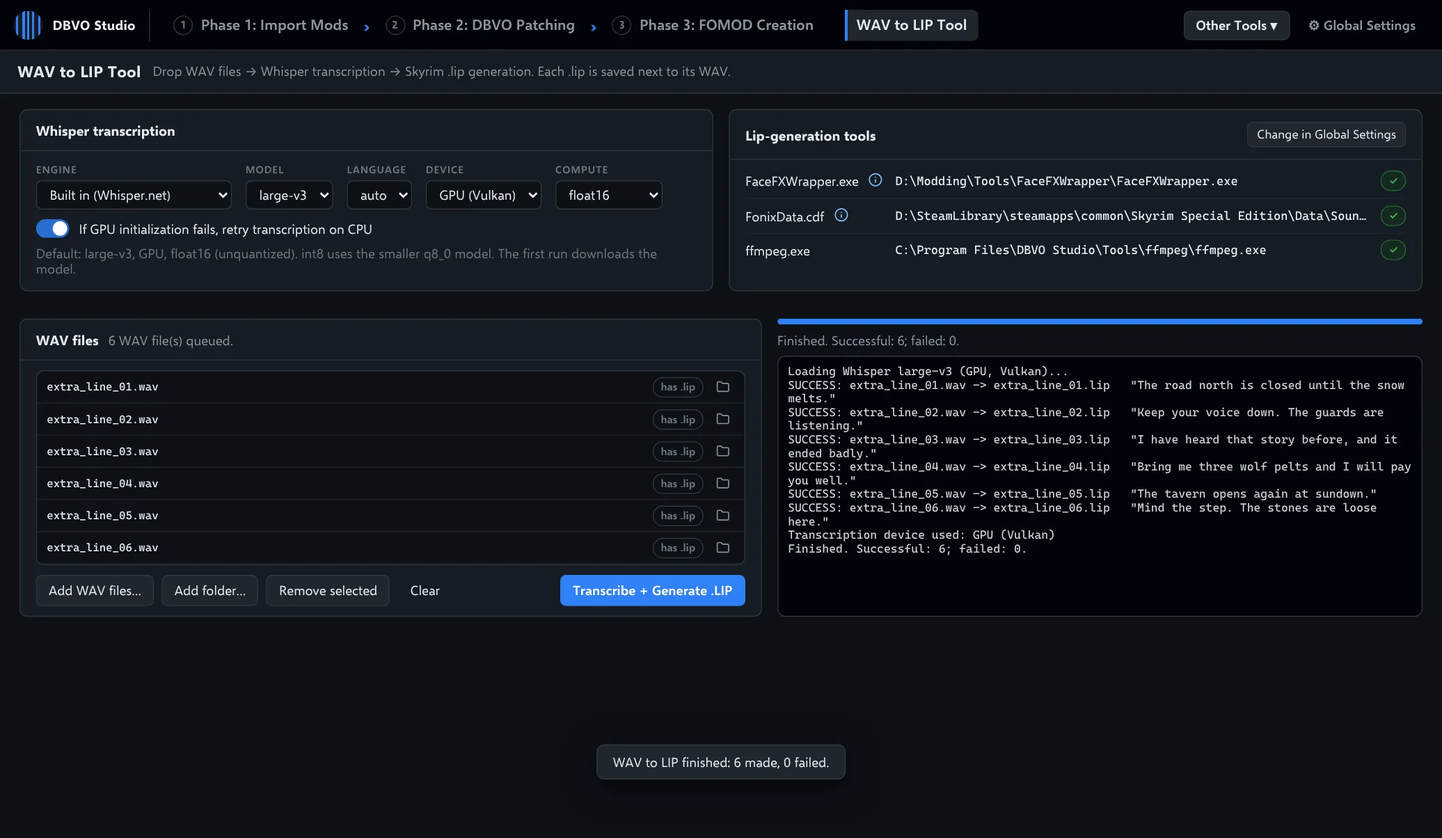
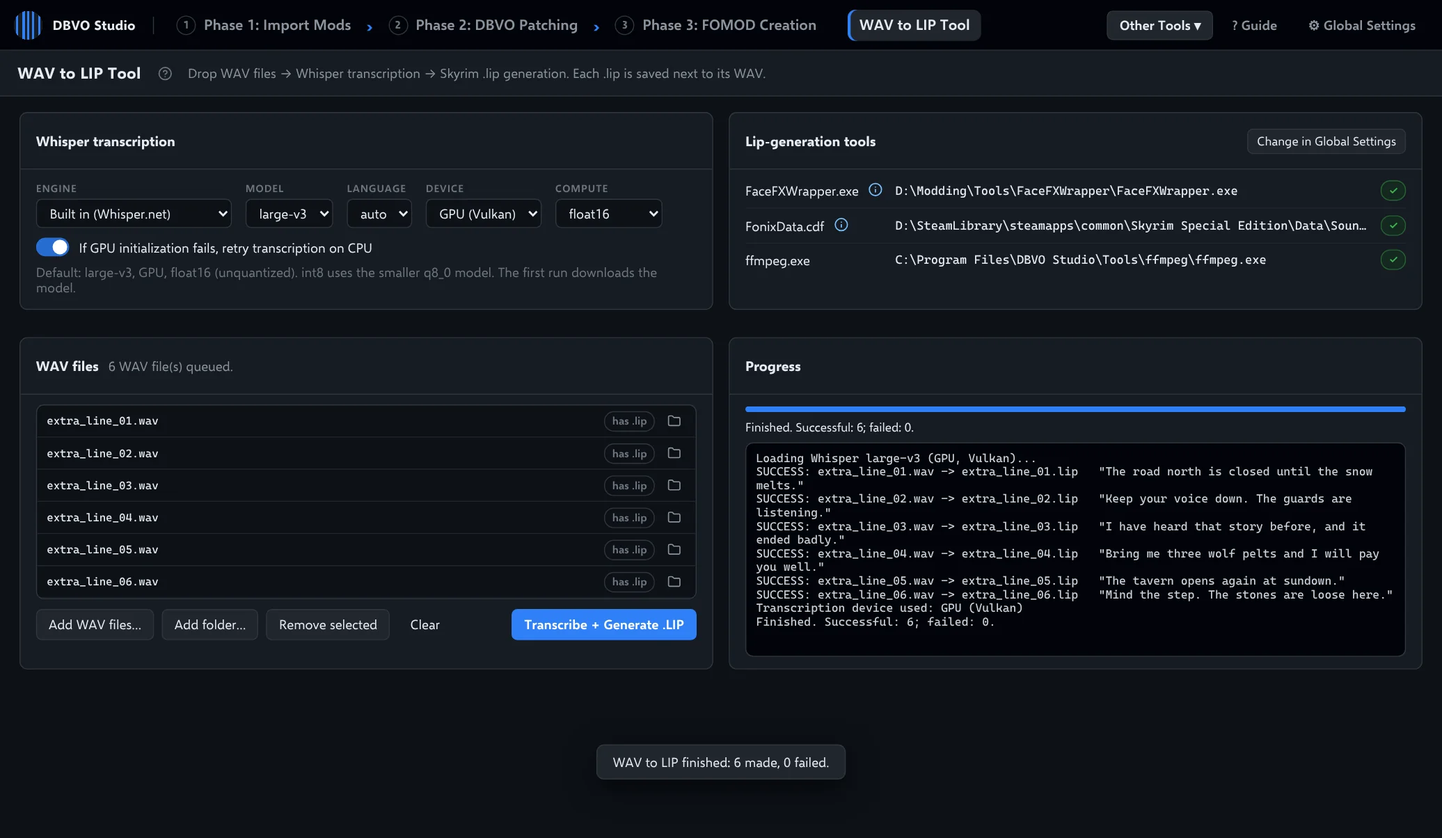
Background image on every page, M'aiq quotes, header tab edges, WAV to LIP layout
- Background image moves to Global Settings → Appearance and sits behind every page; list pages
  show it through a see-through shade, work pages (lines, patch, revoice, FOMOD editor, guide) stay solid
- Landing page: a word from M'aiq the Liar under the welcome (snowflakes first, then a shuffled round)
- Active header tabs (logo, phases, tools) share the rounded accent edge of the recent-work cards
- "Start something" label in white over a background image
- WAV to LIP: Progress block with a header like the others; the four blocks align in two equal columns

Claude-Session: https://claude.ai/code/session_01U6TEYM8mjbw7eJaLX2KYzY

diff --git a/src/DbvoStudio.App/wwwroot/styles.css b/src/DbvoStudio.App/wwwroot/styles.css
@@ -47,7 +47,7 @@ a:hover { text-decoration: underline; }
 .crumb { white-space: nowrap; flex-shrink: 0; background: none; border: 0; color: var(--dim); font-size: 15px; font-weight: 600; padding: 7px 12px; border-radius: var(--radius); cursor: pointer; display: flex; gap: 8px; align-items: center; }
 .crumb .num { font-size: 11px; font-weight: 700; color: var(--faint); border: 1px solid var(--line); border-radius: 50%; width: 20px; height: 20px; display: inline-flex; align-items: center; justify-content: center; }
 .crumb:hover { color: var(--text); background: var(--panel); }
-.crumb.active { color: var(--text); background: var(--raised); box-shadow: inset 3px 0 0 var(--accent); border-radius: 0 var(--radius) var(--radius) 0; }
+.crumb.active { color: var(--text); background: var(--raised); box-shadow: inset 3px 0 0 var(--accent); border-radius: 8px; }
 .crumb.active .num { background: var(--accent-strong); border-color: var(--accent-strong); color: var(--on-accent); }
 .tool-crumb { margin-left: 18px; }
 .crumb-sep { color: var(--accent); font-size: 18px; font-weight: 700; padding: 0 2px; }
@@ -398,10 +398,12 @@ input[type=checkbox] { accent-color: var(--accent); width: 15px; height: 15px; }
 .credits-pop { position: fixed; z-index: 60; min-width: 260px; max-width: 340px; background: var(--raised); border: 1px solid var(--line); border-radius: var(--radius); box-shadow: 0 8px 24px rgba(0,0,0,.35); padding: 12px; display: flex; flex-direction: column; gap: 8px; font-size: 12.5px; }
 .credits-pop .row { gap: 10px; align-items: center; }
 .section.compact .srow { padding: 6px 0; grid-template-columns: 130px 1fr; }
-.tool-bottom { display: grid; grid-template-columns: minmax(0, 1.15fr) minmax(0, 1fr); gap: 16px; align-items: stretch; }
+.tool-bottom { display: grid; grid-template-columns: minmax(0, 1fr) minmax(0, 1fr); gap: 16px; align-items: stretch; }
 .tool-bottom > .section { margin-bottom: 0; }
-.tool-log { display: flex; flex-direction: column; gap: 8px; min-width: 0; }
-.tool-log .log { flex: 1; min-height: 260px; max-height: 52vh; }
+.tool-log { display: flex; flex-direction: column; min-width: 0; margin-bottom: 0; }
+.tool-log > .section-body { flex: 1; display: flex; flex-direction: column; gap: 8px; padding: 12px 16px; min-height: 0; }
+.tool-log .log { flex: 1; min-height: 220px; max-height: 52vh; }
+.tool-status { color: var(--text); font-size: 12.5px; overflow-wrap: anywhere; }
 @media (max-width: 1000px) { .tool-top, .tool-bottom { grid-template-columns: 1fr; } }
 
 /* batch add mods */
@@ -446,9 +448,10 @@ input[type=checkbox] { accent-color: var(--accent); width: 15px; height: 15px; }
 .need-steps { margin: 10px 0 0 18px; padding: 0; display: flex; flex-direction: column; gap: 8px; line-height: 1.5; }
 
 /* ------------------------------------------------------------------ landing page */
-.brand { cursor: pointer; border-radius: 8px 0 0 8px; padding-left: 6px; margin-left: -6px; }
+.brand { cursor: pointer; border-radius: 8px; padding: 0 12px; margin-left: -12px; margin-right: 12px; border-right: 0; position: relative; height: 34px; }
+.brand::after { content: ''; position: absolute; right: -7px; top: 8px; bottom: 8px; width: 1px; background: var(--line); }
 .brand:hover .brand-name { color: var(--link); }
-.brand.active { background: var(--raised); box-shadow: inset 0 -2px 0 var(--accent); }
+.brand.active { background: var(--raised); box-shadow: inset 3px 0 0 var(--accent); }
 .brand:focus-visible { outline: 2px solid var(--accent); outline-offset: 2px; }
 .view.home { overflow: auto; display: flex; flex-direction: column; }
 .home-top { display: grid; grid-template-columns: minmax(340px, 1fr) 1.45fr; flex: 1; min-height: 0; }
@@ -458,7 +461,9 @@ input[type=checkbox] { accent-color: var(--accent); width: 15px; height: 15px; }
 .home-wave i { flex: 0 0 8px; border-radius: 5px; background: linear-gradient(color-mix(in srgb, var(--accent) 55%, #fff), var(--accent-strong)); }
 .home-hero { container-type: inline-size; }
 .home-hero h1 { font-size: clamp(20px, 5.1cqi, 29px); line-height: 1.2; margin: 0 0 8px; font-weight: 600; letter-spacing: -.2px; text-wrap: balance; }
-.home-ask { color: var(--dim); font-size: 16.5px; margin: 0 0 22px; }
+.home-quote { margin: 4px 0 24px; max-width: 34em; }
+.home-quote blockquote { margin: 0; color: var(--dim); font-size: 15.5px; font-style: italic; line-height: 1.45; text-wrap: pretty; }
+.home-quote figcaption { margin-top: 5px; color: var(--faint); font-size: 12px; letter-spacing: .2px; }
 .home-stats { display: flex; gap: 30px; }
 .home-stats b { display: block; font-size: 24px; font-weight: 650; }
 .home-stats span { color: var(--faint); font-size: 12px; }
@@ -524,10 +529,16 @@ input[type=checkbox] { accent-color: var(--accent); width: 15px; height: 15px; }
 @keyframes help-flash { from { background: var(--accent-soft); } to { background: transparent; } }
 
 /* Landing page with the user's own background: each part keeps its usual shade, see-through */
-.view.home.has-bg { --s-hero: 78%; --s-start: 42%; --s-card: 82%; --s-recent: 84%; --s-rc: 80%;
-  background: var(--home-bg) center / cover no-repeat, var(--deep); }
-.view.home.has-bg.shade-light { --s-hero: 62%; --s-start: 22%; --s-card: 70%; --s-recent: 70%; --s-rc: 66%; }
-.view.home.has-bg.shade-dark { --s-hero: 90%; --s-start: 62%; --s-card: 92%; --s-recent: 93%; --s-rc: 90%; }
+html.has-bg { --s-page: 70%; --s-hero: 78%; --s-start: 42%; --s-card: 82%; --s-recent: 84%; --s-rc: 80%; }
+html.has-bg.shade-light { --s-page: 52%; --s-hero: 62%; --s-start: 22%; --s-card: 70%; --s-recent: 70%; --s-rc: 66%; }
+html.has-bg.shade-dark { --s-page: 84%; --s-hero: 90%; --s-start: 62%; --s-card: 92%; --s-recent: 93%; --s-rc: 90%; }
+/* The image sits behind every page; each page lays its usual background over it, see-through. Cards, sections and line
+   grids keep their solid colours so the work itself always reads cleanly. */
+html.has-bg #main { background: var(--app-bg) center / cover no-repeat, var(--deep); }
+html.has-bg .view { background: color-mix(in srgb, var(--bg) var(--s-page), transparent); }
+html.has-bg .view.home { background: none; }
+html.has-bg .view-head { background: color-mix(in srgb, var(--panel) 86%, transparent); backdrop-filter: blur(8px); }
+html.has-bg .vgrid { background: var(--bg); }
 .has-bg .home-hero { background: radial-gradient(120% 90% at 0% 100%, color-mix(in srgb, var(--accent) 14%, transparent), transparent 60%), color-mix(in srgb, var(--deep) var(--s-hero), transparent); }
 .has-bg .home-start { background: color-mix(in srgb, var(--bg) var(--s-start), transparent); }
 .has-bg .home-card { background: color-mix(in srgb, var(--panel) var(--s-card), transparent); backdrop-filter: blur(8px); }
@@ -537,4 +548,10 @@ input[type=checkbox] { accent-color: var(--accent); width: 15px; height: 15px; }
 .has-bg .home-hero h1, .has-bg .home-stats b { text-shadow: 0 1px 12px color-mix(in srgb, var(--deep) 70%, transparent); }
 .has-bg .home-chip { background: color-mix(in srgb, var(--deep) 55%, transparent); }
 .bg-thumb { width: 64px; height: 36px; border-radius: 6px; border: 1px solid var(--line); background: center / cover no-repeat; flex: none; }
-.has-bg .home-lbl, .has-bg .home-ask, .has-bg .home-stats span { color: var(--dim); text-shadow: 0 1px 8px color-mix(in srgb, var(--deep) 85%, transparent), 0 0 2px color-mix(in srgb, var(--deep) 70%, transparent); }
+.has-bg .home-lbl, .has-bg .home-quote blockquote, .has-bg .home-quote figcaption, .has-bg .home-stats span { color: var(--dim); text-shadow: 0 1px 8px color-mix(in srgb, var(--deep) 85%, transparent), 0 0 2px color-mix(in srgb, var(--deep) 70%, transparent); }
+
+/* Over a background image: the one section label on the landing page in white, so it reads on any picture */
+.has-bg .home-start > .home-lbl { color: #fff; text-shadow: 0 1px 6px rgba(0, 0, 0, .7); }
+/* Pages you work in (a mod's lines, a patch, a revoice project, the FOMOD editor, the guide) stay solid over a background image */
+html.has-bg .view.work, html.has-bg .view.help-page { background: var(--bg); }
+.tool-top .section-head, .tool-bottom .section-head { min-height: 58px; padding-top: 8px; padding-bottom: 8px; }

diff --git a/src/DbvoStudio.App/wwwroot/help/guide.html b/src/DbvoStudio.App/wwwroot/help/guide.html
@@ -5,7 +5,7 @@
 <p>Phase 1 decides <em>what</em> is said, Phase 2 decides <em>how it sounds</em>, and Phase 3 decides <em>how it is installed</em>. You can export at any stage and skip the FOMOD altogether.</p>
 <p>The guide follows the same order: setup, the three phases, the two tools, a reference of greyed-out buttons, then files and troubleshooting. Every button in the app also has a tooltip. The screenshots use sample data: the base game plugins as the mod, and a voice pack called <em>Sample Voice</em>.</p>
 <h3 id="the-landing-page-and-help">The landing page and help</h3>
-<p>Clicking <strong>DBVO Studio</strong> at the top left opens the landing page. It greets you (with a different welcome each time DBVO Studio opens) and offers what to do next: make DBVO patches, revoice NPCs, build a FOMOD, make lip sync, set up the studio or read this guide.</p>
+<p>Clicking <strong>DBVO Studio</strong> at the top left opens the landing page. It greets you (with a different welcome and a word from M’aiq the Liar each time DBVO Studio opens) and offers what to do next: make DBVO patches, revoice NPCs, build a FOMOD, make lip sync, set up the studio or read this guide.</p>
 <ul><li><p><strong>The left side</strong> counts your mods, patches and voiced lines, and checks the studio: the Library path, the five tools, your ElevenLabs credits and AI auto-tagging. An amber chip needs attention; click it to go to the setting.</p></li><li><p><strong>Pick up where you left off</strong> shows the four projects you opened most recently (patches, mods, FOMODs and revoice projects) with their progress. Click one to open it.</p></li></ul>
 <figure><img src="help/img/landing.webp" alt="The landing page: what to do, the studio check and the work to pick up again" loading="lazy"><figcaption>The landing page: what to do, the studio check and the work to pick up again</figcaption></figure>
 <p>Help is built in. The small <strong>?</strong> buttons next to page titles, toolbars, settings and dialogs open this guide at the matching section in a side panel; <strong>Esc</strong> closes it. <strong>? Guide</strong> in the top bar, or <strong>F1</strong>, opens the whole guide with a contents list and search.</p>
@@ -42,10 +42,13 @@
 <figure><img src="help/img/settings-references.webp" alt="Omit references with one example topic file" loading="lazy"><figcaption>Omit references with one example topic file</figcaption></figure>
 <h4 id="start-page">Start page</h4>
 <p><strong>General &amp; tools → Start page</strong> decides what you see when DBVO Studio opens: the <strong>Landing page</strong> (the default) or <strong>Where I left off</strong>, the page you had open last time. The DBVO Studio logo at the top left always opens the landing page.</p>
-<p><strong>Landing page background</strong> puts an image of your own behind the whole landing page: <strong>Choose image…</strong> picks a PNG, JPG, WebP, GIF or BMP, and <strong>Reset</strong> brings back the standard look. Each part of the page keeps its usual shade over the image so the text stays readable; <strong>Shade</strong> (Lighter, Normal, Darker) shows more or less of it. Wide images (16:9 or wider) fit best, since the image is cropped to fill the window. The image is copied into DBVO Studio&#39;s own folder on this computer, so moving the original doesn&#39;t break it.</p>
-<figure><img src="help/img/settings-startpage.webp" alt="The Start page setting and the landing page background" loading="lazy"><figcaption>The Start page setting and the landing page background</figcaption></figure>
+<figure><img src="help/img/settings-startpage.webp" alt="The Start page setting" loading="lazy"><figcaption>The Start page setting</figcaption></figure>
+<h4 id="background-image">Background image</h4>
+<p><strong>General &amp; tools → Appearance → Background image</strong> puts an image of your own behind every page: <strong>Choose image…</strong> picks a PNG, JPG, WebP, GIF or BMP, and <strong>Reset</strong> brings back the plain background. Each page keeps its usual shade over the image, while cards, sections and lists stay solid, so the text stays readable. Pages you work in (a mod&#39;s lines, a patch, a revoice project, the FOMOD editor and this guide) stay fully solid. <strong>Shade</strong> (Lighter, Normal, Darker) shows more or less of the image. Wide images (16:9 or wider) fit best, since the image is cropped to fill the window. The image is copied into DBVO Studio&#39;s own folder on this computer (<code>%LOCALAPPDATA%\DBVOStudio\UserFiles</code>), so moving the original doesn&#39;t break it, but it doesn&#39;t travel with the library to another PC.</p>
+<figure><img src="help/img/settings-background.webp" alt="Appearance: the colour theme and the background image" loading="lazy"><figcaption>Appearance: the colour theme and the background image</figcaption></figure>
+<figure><img src="help/img/background-mods.webp" alt="Phase 1 with a background image" loading="lazy"><figcaption>Phase 1 with a background image</figcaption></figure>
 <h4 id="other-switches">Other switches</h4>
-<p><em>Appearance</em> changes the colour theme. <em>Voice lines with Player Names</em> (off by default) keeps <code>&lt;Alias=Player&gt;</code> lines out of generation. <em>Confirmation message when mass-generating lines</em> shows a cost summary before any batch. <em>Categories</em> sort mods and patches and become the default FOMOD pages; they never change folder paths. <em>Local voice engines</em> holds the VoxCPM and OmniVoice server addresses.</p>
+<p><em>Appearance</em> changes the colour theme and holds the background image (above). <em>Voice lines with Player Names</em> (off by default) keeps <code>&lt;Alias=Player&gt;</code> lines out of generation. <em>Confirmation message when mass-generating lines</em> shows a cost summary before any batch. <em>Categories</em> sort mods and patches and become the default FOMOD pages; they never change folder paths. <em>Local voice engines</em> holds the VoxCPM and OmniVoice server addresses.</p>
 <h2 id="phase-1-import-mods">Phase 1: Import Mods</h2>
 <p>Phase 1 turns a mod&#39;s plugins into DBVO-ready player lines. You review the lines DBVO&#39;s script flags, decide what is voiced and what goes into the DBVO Fix plugin, then continue to Phase 2. The work is shared by every voice pack, so you do it once per mod.</p>
 <h3 id="add-mods">Add mods</h3>

diff --git a/src/DbvoStudio.App/wwwroot/settings.js b/src/DbvoStudio.App/wwwroot/settings.js
@@ -2,7 +2,7 @@
 import { VOICE_COLORS, voiceChip } from './phase2.js';
 import { THEMES, applyTheme } from './themes.js';
 import { rpc, h, clear, toast, fail, modal, confirmBox, prompt, store, switchEl, segmented, popupMenu, needInfo, helpButton } from './lib.js';
-import { app, go, refreshState } from './app.js';
+import { app, go, refreshState, applyBackground } from './app.js';
 
 const TABS = [
   ['general', 'General & tools'],
@@ -15,7 +15,7 @@ const TABS = [
 
 /** The user guide section each settings section is explained in (its ? button). */
 const SECTION_HELP = {
-  'Library': '2-choose-the-library-location-first', 'ElevenLabs': '4-add-your-elevenlabs-key', 'Appearance': 'other-switches', 'Start page': 'start-page',
+  'Library': '2-choose-the-library-location-first', 'ElevenLabs': '4-add-your-elevenlabs-key', 'Appearance': 'background-image', 'Start page': 'start-page',
   'Voice lines with Player Names (<Alias=Player>)': 'player-name-lines', 'Confirmation message when mass-generating lines': 'generating',
   'Tools': '3-check-the-tools', 'Plugins': '3-check-the-tools', 'AI auto-tagging': 'ai-auto-tagging', 'WAV to LIP (Other Tools)': 'wav-to-lip-tool',
   'Local voice engines': 'the-toolbar', 'Voice pack': '5-create-a-voice-pack', 'Defaults for new DBVO Patches': '5-create-a-voice-pack',
@@ -26,21 +26,21 @@ function section(title, extra, ...rows) {
   const help = SECTION_HELP[title];
   return h('div.section', h('div.section-head', h('h2', title), help ? helpButton(help, { label: title }) : null, extra), h('div.section-body', rows));
 }
-/** The landing page background: an image of your own behind the whole page, or the standard look. */
-function landingBackground(st, save, rerender) {
+/** A background image of your own behind every page, or the standard look. */
+function backgroundImage(st, save, rerender) {
   const ui = st.ui || {};
   const set = !!ui.homeBg;
   const pick = async () => {
     try {
       const path = await rpc('pick.file', { title: 'Landing page background', filter: 'Images|*.png;*.jpg;*.jpeg;*.webp;*.gif;*.bmp' });
       if (!path) return;
-      app.state = await rpc('home.setBackground', { path }); toast('Saved.'); rerender();
+      app.state = await rpc('home.setBackground', { path }); applyBackground(app.state.settings.ui || {}); toast('Saved.'); rerender();
     } catch (e) { fail(e); }
   };
-  const reset = async () => { try { app.state = await rpc('home.resetBackground'); toast('Reset.'); rerender(); } catch (e) { fail(e); } };
+  const reset = async () => { try { app.state = await rpc('home.resetBackground'); applyBackground(app.state.settings.ui || {}); toast('Reset.'); rerender(); } catch (e) { fail(e); } };
   const thumb = set ? h('span.bg-thumb', { style: { backgroundImage: `url("https://user.dbvo/${encodeURIComponent(ui.homeBg)}?v=${ui.homeBgV || ''}")` } }) : null;
-  return srow('Landing page background',
-    'An image of your own behind the whole landing page. Each part keeps its usual shade over it, so the text stays readable. Wide images (16:9 or wider) fit best; the image is cropped to fill the window. Reset brings back the standard look.',
+  return srow('Background image',
+    'An image of your own behind every page. Each page keeps its usual shade over it, and cards, lists and line grids stay solid, so the text stays readable. Shade shows more or less of the image. Wide images (16:9 or wider) fit best; the image is cropped to fill the window. Reset brings back the plain background.',
     h('div.col', { style: { gap: '8px' } },
       h('div.row', { style: { gap: '8px', alignItems: 'center' } }, thumb,
         h('button.btn.sm', { title: 'Choose a PNG, JPG, WebP, GIF or BMP image', onclick: pick }, set ? 'Change image…' : 'Choose image…'),
@@ -196,6 +196,7 @@ async function credits() {
 
 async function saveSettings(patchObj) {
   app.state = await rpc('settings.save', { settings: patchObj });
+  applyBackground(app.state.settings.ui || {});
   return app.state;
 }
 
@@ -297,11 +298,11 @@ async function general(_, rerender) {
           h('div.tp-bar', { style: { background: v.deep } }, h('span', { style: { background: v.accent } }), h('span', { style: { background: v.panel } })),
           h('div.tp-body', h('span', { style: { background: v.raised, borderColor: v.line } }), h('span', { style: { background: v.ok } }), h('span', { style: { background: v.warn } }), h('span', { style: { background: v.bad } })),
           h('div.tp-name', t.name + (t.id === 'github-dark' ? ' (default)' : '')));
-      })))),
+      }))),
+      backgroundImage(st, save, rerender)),
     section('Start page', null,
       switchRow('When DBVO Studio opens', 'Landing page (default): the welcome page with what to do, the studio check and your recent work. Where I left off: the page you had open last time. The DBVO Studio logo at the top left always opens the landing page.',
-        segmented([['home', 'Landing page'], ['last', 'Where I left off']], (st.ui || {}).startPage === 'last' ? 'last' : 'home', (x) => save({ ui: { startPage: x } }))),
-      landingBackground(st, save, rerender)),
+        segmented([['home', 'Landing page'], ['last', 'Where I left off']], (st.ui || {}).startPage === 'last' ? 'last' : 'home', (x) => save({ ui: { startPage: x } })))),
     section('Voice lines with Player Names (<Alias=Player>)', null,
       switchRow('Voice player-name lines', 'Off (default): lines with <Alias=Player> are left out of the topic files (♪ off), so they are not generated by accident when you voice them in a dedicated Player Names patch. They stay listed under "Player names" in Phase 1 and can still be exported there. On: they are voiced in Phase 2 like any other line. A ♪ you set by hand on a line always wins.',
         switchEl(!!st.playerNameLinesVoiced, (x) => save({ playerNameLinesVoiced: x }), null, { title: 'Voice <Alias=Player> lines in Phase 2' }))),

diff --git a/src/DbvoStudio.App/wwwroot/home.js b/src/DbvoStudio.App/wwwroot/home.js
@@ -29,6 +29,50 @@ function pickGreeting() {
   return (greeting = GREETINGS[i]);
 }
 
+// Under the welcome: a word from M'aiq the Liar (UESP). The first launch shows the snowflakes; then the rest in a shuffled
+// order, each once, before the snowflakes come round again.
+const MAIQ = [
+  'Snow falls. Why worry where it goes? M\'aiq thinks the snowflakes are pretty.',
+  'M\'aiq knows much, and tells some. M\'aiq knows many things others do not.',
+  'M\'aiq knows many things, no?',
+  'It does not matter to M\'aiq how strong or smart one is. It only matters what one can do.',
+  'Much snow in Skyrim. Enough snow. M\'aiq does not want any more.',
+  'M\'aiq once walked to High Hrothgar. So many steps, he lost count.',
+  'Too much magic can be dangerous. M\'aiq once had two spells and burned his sweetroll.',
+  'What does this mean, to combine magic? Magic plus magic is still magic.',
+  'Dragons were never gone. They were just invisible and very, very quiet.',
+  'Some say Alduin is Akatosh. Some say M\'aiq is a Liar. Don\'t you believe either of those things.',
+  'M\'aiq hears many stories of war... yet few of them are true.',
+  'How does one know there was a city of Winterhold? M\'aiq did not see it with his eyes. Did you?',
+  'M\'aiq knows why Falmer are blind. It has nothing to do with the Dwemer disappearing. Really.',
+  'M\'aiq is always in search of calipers, yet finds none. Where could they have gone?',
+  'M\'aiq is very practical. He has no need for mysticism.',
+  'M\'aiq\'s father was also called M\'aiq. As was M\'aiq\'s father\'s father. At least, that\'s what his father said.',
+  'Nords are so serious about beards. So many beards. M\'aiq thinks they wish they had glorious manes like Khajiit.',
+  'Nords\' armor has lots of fur. This sometimes makes M\'aiq nervous.',
+  'M\'aiq can travel fast across the land. Some lazy types take carriages. It is all the same to M\'aiq.',
+  'M\'aiq carries two weapons, to be safe. What if one breaks? That would be most unlucky.',
+  'Don\'t try blocking if you have two weapons. You will only get confused. Much better to hit twice anyway.',
+  'Some like taking friends on adventures. M\'aiq thinks being alone is better. Less arguing about splitting treasure.',
+  'Once M\'aiq got in trouble in Riften, and fled to Windhelm. It is good that nobody there cared.',
+  'M\'aiq saw a mudcrab the other day. Horrible creatures.',
+  'Werebears? Where? Bears? Men that are bears?',
+  'Skyrim was once the land of many butterflies. Now, not so much.',
+];
+let maiq = null; // picked once per launch
+function pickMaiq() {
+  if (maiq != null) return maiq;
+  let deck = store.get('maiqDeck', null);
+  let i;
+  if (!Array.isArray(deck) || !deck.length || deck.some((x) => !Number.isInteger(x) || x < 1 || x >= MAIQ.length)) {
+    i = 0; // the first launch, and the start of every round
+    deck = [...Array(MAIQ.length - 1).keys()].map((x) => x + 1);
+    for (let k = deck.length - 1; k > 0; k--) { const j = Math.floor(Math.random() * (k + 1)); [deck[k], deck[j]] = [deck[j], deck[k]]; }
+  } else i = deck.shift();
+  store.set('maiqDeck', deck);
+  return (maiq = MAIQ[i]);
+}
+
 const WAVE = [18, 30, 52, 40, 70, 88, 60, 94, 72, 46, 80, 100, 64, 38, 58, 84, 50, 28, 44, 22, 36, 16];
 const RECENT_KEY = 'recent';
 const RECENT_VIEWS = ['mod', 'patch', 'fomod', 'revoice'];
@@ -45,11 +89,6 @@ export async function homeView() {
   const s = await refreshState();
   const revoices = await rpc('revoice.list').catch(() => []);
   const view = h('div.view.home');
-  const ui = s.settings.ui || {};
-  if (ui.homeBg) {
-    view.classList.add('has-bg', 'shade-' + (ui.homeBgShade || 'normal'));
-    view.style.setProperty('--home-bg', `url("https://user.dbvo/${encodeURIComponent(ui.homeBg)}?v=${ui.homeBgV || ''}")`);
-  }
 
   // ---- left: welcome, counts and the studio check
   const voiced = s.patches.reduce((a, p) => a + (p.generated || 0), 0);
@@ -81,7 +120,7 @@ export async function homeView() {
   const left = h('section.home-hero',
     h('div.home-wave', WAVE.map((x) => h('i', { style: { height: x + '%' } }))),
     h('h1', pickGreeting()[0], h('br'), pickGreeting()[1]),
-    h('p.home-ask', 'What do you want to do today?'),
+    h('figure.home-quote', h('blockquote', '“' + pickMaiq().replace(/'/g, '’') + '”'), h('figcaption', '— M’aiq the Liar')),
     stats, checks);
 
   // ---- right: what to do

diff --git a/src/DbvoStudio.App/wwwroot/tools.js b/src/DbvoStudio.App/wwwroot/tools.js
@@ -74,7 +74,7 @@ export async function wavLipView() {
   });
   renderList();
 
-  const statusEl = h('div.dim', statusText || `Tools root: ${st.faceFxWrapperPath ? st.faceFxWrapperPath.replace(/\\[^\\]*$/, '') : '—'}`);
+  const statusEl = h('div.tool-status', statusText || `Tools root: ${st.faceFxWrapperPath ? st.faceFxWrapperPath.replace(/\\[^\\]*$/, '') : '—'}`);
   const bar = h('div.bar', h('div.bar-fill', { style: { width: '0%' } }));
   const logEl = h('div.log', logLines.join('\n'));
   const log = (t) => { logLines.push(t); if (logLines.length > 2000) logLines.shift(); logEl.textContent = logLines.join('\n'); logEl.scrollTop = logEl.scrollHeight; };
@@ -91,7 +91,8 @@ export async function wavLipView() {
         h('button.btn', { title: 'Remove the selected files from the list (not from disk)', onclick: () => { files = files.filter((_, i) => !selected.has(i)); selected.clear(); renderList(); } }, 'Remove selected'),
         h('button.btn.ghost', { title: 'Empty the list (files stay on disk)', onclick: () => { files = []; selected.clear(); renderList(); } }, 'Clear'),
         h('div.spacer'), startBtn))),
-    h('div.tool-log', bar, statusEl, logEl)));
+    h('div.section.tool-log', { style: { maxWidth: 'none' } }, h('div.section-head', h('h2', 'Progress')),
+      h('div.section-body', bar, statusEl, logEl))));
 
   async function start() {
     if (app.job) return;

diff --git a/src/DbvoStudio.App/wwwroot/app.js b/src/DbvoStudio.App/wwwroot/app.js
@@ -17,9 +17,21 @@ export const app = {
 
 const main = document.getElementById('main');
 
+/** The user's background image behind every page (Global Settings → Appearance), or none. */
+export function applyBackground(ui) {
+  const root = document.documentElement;
+  root.classList.toggle('has-bg', !!ui.homeBg);
+  root.classList.remove('shade-light', 'shade-normal', 'shade-dark');
+  if (ui.homeBg) {
+    root.classList.add('shade-' + (ui.homeBgShade || 'normal'));
+    root.style.setProperty('--app-bg', `url("https://user.dbvo/${encodeURIComponent(ui.homeBg)}?v=${ui.homeBgV || ''}")`);
+  } else root.style.removeProperty('--app-bg');
+}
+
 export async function refreshState() {
   app.state = await rpc('state');
   { const th = (app.state.settings.ui || {}).theme; if (th) applyTheme(th); }
+  applyBackground(app.state.settings.ui || {});
   // A job indicator left over from a job that ended without telling the page (e.g. after a crash) must not block buttons.
   if (!app.state.jobRunning && app.job) { app.job = null; document.getElementById('job').classList.add('hidden'); }
   return app.state;

diff --git a/src/DbvoStudio.App/wwwroot/phase1.js b/src/DbvoStudio.App/wwwroot/phase1.js
@@ -286,7 +286,7 @@ export async function modView(id) {
   let focusedKey = null;
   let showInsp = store.get('insp1', true);
 
-  const view = h('div.view');
+  const view = h('div.view.work');
   const head = h('div.view-head');
   const hint = h('div.hint', h('b', 'Review flagged lines'), ' (BROKEN LINE, TOO LONG WILL CTD, PLAYER NAME), then ', h('b', 'Continue to Phase 2'), '. ',
     'A DBVO Fix plugin is only made when at least one line needs fixing; a clean plugin gets none. ',

diff --git a/src/DbvoStudio.App/wwwroot/phase2.js b/src/DbvoStudio.App/wwwroot/phase2.js
@@ -254,7 +254,7 @@ export async function patchView(id) {
   // With the Voice Changer on, a line needs a source file, unless text-to-speech for such lines is turned on.
   const canGen = (l) => !vc || l.hasSource || !!patch.ttsForMissing;
 
-  const view = h('div.view');
+  const view = h('div.view.work');
   const head = h('div.view-head');
   const tb = h('div.toolbar');
   const tagbar = h('div.tagbar');

diff --git a/src/DbvoStudio.App/wwwroot/revoice.js b/src/DbvoStudio.App/wwwroot/revoice.js
@@ -62,7 +62,7 @@ export async function revoiceView(id) {
   const reindex = () => { index = new Map(proj.lines.map((l) => [l.id, l])); };
   reindex();
 
-  const view = h('div.view');
+  const view = h('div.view.work');
   const head = h('div.view-head');
   const body = h('div', { style: { flex: '1', minHeight: '0', display: 'flex', flexDirection: 'column' } });
   view.append(head, body);

diff --git a/src/DbvoStudio.App/wwwroot/phase3.js b/src/DbvoStudio.App/wwwroot/phase3.js
@@ -103,7 +103,7 @@ export async function fomodView(id) {
   const collapsed = store.get('fomodCollapsed:' + id, {});
   const savedEl = h('span.saved.ok', 'Saved ✓');
 
-  const view = h('div.view');
+  const view = h('div.view.work');
   const head = h('div.view-head');
   const tree = h('div.ftree');
   const edit = h('div.fedit');

diff --git a/src/DbvoStudio.App/Backend.Extra.cs b/src/DbvoStudio.App/Backend.Extra.cs
@@ -42,7 +42,7 @@ public sealed partial class Backend
                 _owner.Dispatcher.Invoke(() => WindowChrome.Apply(_owner, S(p, "caption"), S(p, "text"), B(p, "dark")));
                 return true;
 
-            // ---- the landing page background (kept per computer, served as https://user.dbvo/)
+            // ---- the background image behind every page (kept per computer, served as https://user.dbvo/)
             case "home.setBackground":
                 return await Locked(() =>
                 {
@@ -53,7 +53,7 @@ public sealed partial class Backend
                     if (!File.Exists(src)) throw new InvalidOperationException("That image was not found.");
                     if (new FileInfo(src).Length > 30_000_000) throw new InvalidOperationException("That image is over 30 MB. Use a smaller copy.");
                     RemoveBackgroundFiles();
-                    var name = "landing-background" + ext;
+                    var name = "background" + ext;
                     File.Copy(src, Path.Combine(UserFilesDir, name), true);
                     _settings.Ui["homeBg"] = name;
                     _settings.Ui["homeBgV"] = DateTime.UtcNow.Ticks.ToString();
@@ -582,7 +582,7 @@ public sealed partial class Backend
         return true;
     }
 
-    /// <summary>Files the user gives the app itself (the landing page background), per computer, outside the library.</summary>
+    /// <summary>Files the user gives the app itself (the background image), per computer, outside the library.</summary>
     public static string UserFilesDir
     {
         get
@@ -595,7 +595,8 @@ public sealed partial class Backend
 
     private static void RemoveBackgroundFiles()
     {
-        foreach (var f in Directory.GetFiles(UserFilesDir, "landing-background.*"))
-            try { File.Delete(f); } catch (IOException) { } // in use: the next pick overwrites or the name differs
+        foreach (var pattern in new[] { "background.*", "landing-background.*" }) // the second: build 6.7's name
+            foreach (var f in Directory.GetFiles(UserFilesDir, pattern))
+                try { File.Delete(f); } catch (IOException) { } // in use: the next pick overwrites it
     }
 }
